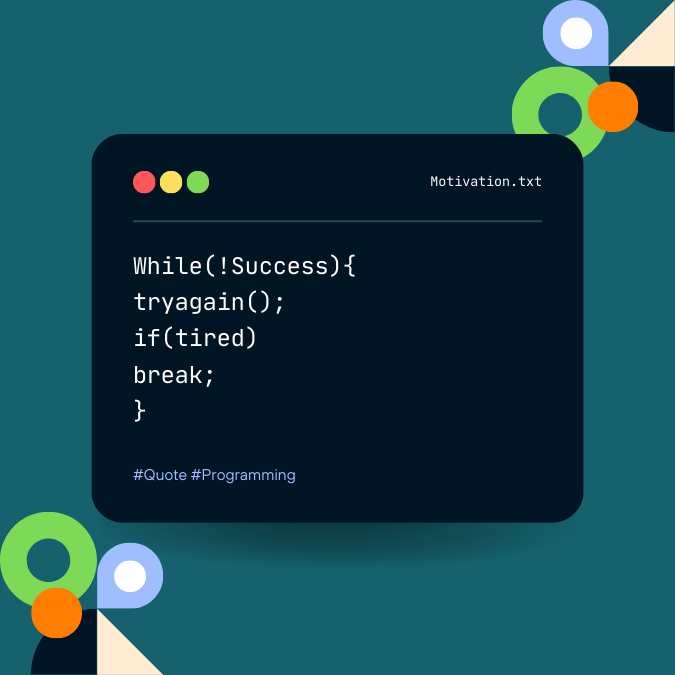
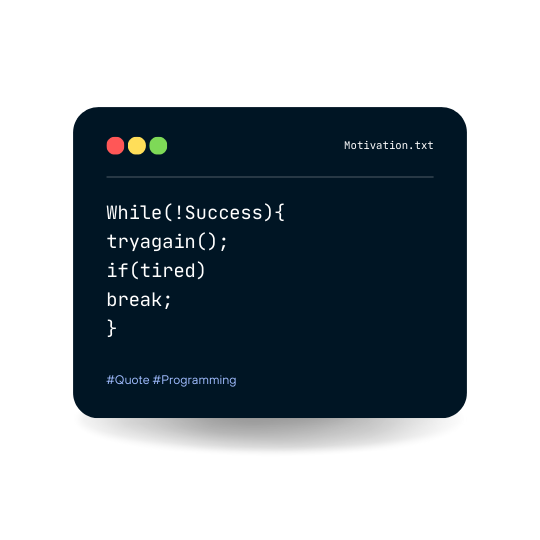
Background removal from "code.png"

diff --git a/components/CertificatesMenu.tsx b/components/CertificatesMenu.tsx
@@ -1,36 +1,34 @@
 import Link from "next/link";
 import type {FunctionComponent} from "react";
 
-const CertificatesMenu: FunctionComponent = () => {
-    return (
-        <ul className="nav nav-menu" id="pp-menu">
-            <li>
-                <Link href="/" className="nav-link">
-                    <span>Home</span>
-                </Link>
-            </li>
-            <li>
-                <Link href="/#about" className="nav-link">
-                    <span>About Me</span>
-                </Link>
-            </li>
-            <li>
-                <Link href="/#services" className="nav-link">
-                    <span>Services</span>
-                </Link>
-            </li>
-            <li>
-                <Link href="/#blog" className="nav-link">
-                    <span>Blog</span>
-                </Link>
-            </li>
-            <li>
-                <Link href="/#contactus" className="nav-link">
-                    <span>Contact Me</span>
-                </Link>
-            </li>
-        </ul>
-    );
-};
+const CertificatesMenu: FunctionComponent = () => (
+	<ul className="nav nav-menu" id="pp-menu">
+		<li>
+			<Link href="/" className="nav-link">
+				<span>Home</span>
+			</Link>
+		</li>
+		<li>
+			<Link href="/#about" className="nav-link">
+				<span>About Me</span>
+			</Link>
+		</li>
+		<li>
+			<Link href="/#services" className="nav-link">
+				<span>Services</span>
+			</Link>
+		</li>
+		<li>
+			<Link href="/#blog" className="nav-link">
+				<span>Blog</span>
+			</Link>
+		</li>
+		<li>
+			<Link href="/#contactus" className="nav-link">
+				<span>Contact Me</span>
+			</Link>
+		</li>
+	</ul>
+);
 
 export default CertificatesMenu;
